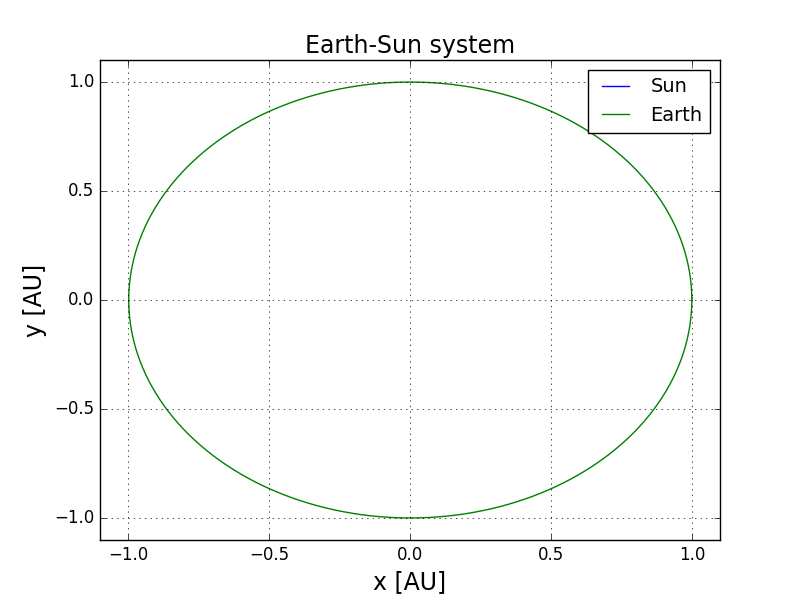
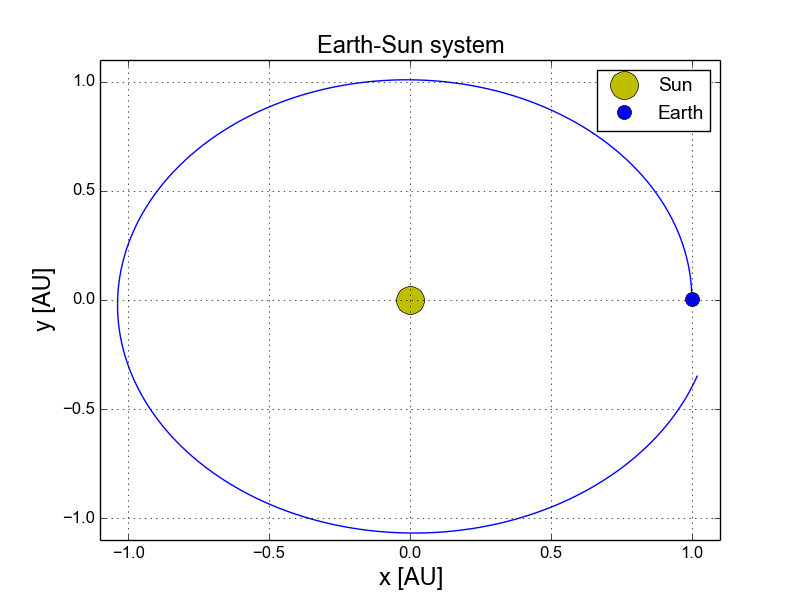
swiitch

diff --git a/src/main.cpp b/src/main.cpp
@@ -11,8 +11,6 @@
 #include "vec3.h"
 #include "celestialbody.h"
 #include "solarsystem.h"
-#include "euler.h"
-#include "velocityverlet.h"
 #include "integrator.h"
 
 using namespace std;
@@ -55,18 +53,8 @@ int main(int argc, char *argv[])
     double dt = atof(argv[2]);
     int num_timesteps = 1000;
 
-    /* Need to do this more properly later, this is just for simple implementation
-     * TODO:
-     * - Add initial conditions for other planets (PLUTO ISNT A PLANET DAMNIT!) add pluto as well though
-     *  - scale mass with the solar mass
-     *  - scale distance and velocity to [AU] and [AU/day]? im confused
-     *
-     * - Write to file some way / solarsystem has such an elegant way of opening files only once :(
-     * - WHAT THE FUCK IS EVEN WRITTEN TO FILE?????
-     * - We might have to manually set the Sun position in (0,0,0) each iteration for the first tasks
-     *
+    /* TODO:
      * - Maybe add folders in benchmarks for the different tasks, so as to make it more readable?
-     *
      * - Need to set up program with some sort of task structure
      *   - 3b: earth-sun system, no solar motion, just write algorithms
      *
@@ -80,9 +68,6 @@ int main(int argc, char *argv[])
      *   - 3e: earth-sun-jupiter, sun still in (0,0,0)
      *     - see how much jupiter alters course. change m_j to different values
      *
-     *   - 3f: earth-sun-jupiter, sun moves!
-     *     - add more planets and moons if time
-     *
      *   - 3g: general relativistic correction (mercury!)
      */
 
@@ -91,39 +76,61 @@ int main(int argc, char *argv[])
     /////////////////////////////////////////////
     if (strcmp(argv[1], "ES") == 0)
     {
-        double v_y0 = 6.28; // not completely random default value
+        double v_y0 = 6.28; // for circular orbit
         if (argc > 3)
         {
             v_y0 = atof(argv[3]);
         }
 
-        // Creating filename for this task
-        string filename = "../benchmarks/ES/pos_dt"+to_string(dt)+"_N"+to_string(num_timesteps)+"_vy"+to_string(v_y0)+".xyz";
+        // Finding number of time steps based on how many years we want the program to run
+        num_timesteps = 1/dt; // 1 yr / dt [yr]
 
+        // Creating filename for this task
+        string meth = method;
+        string filename = "../benchmarks/ES/pos_"+meth+"_dt"+to_string(dt)+"_N"+to_string(num_timesteps)+"_vy"+to_string(v_y0)+".xyz";
+
+        // For timing segments of code, comment out write to file
+        //clock_t start, finish;
+        //ofstream time_ofile;
+        //time_ofile.open("../benchmarks/ES/timing.txt",ios_base::app);
+
+        // Adding objects to our solar system
         solarSystem.createCelestialBody(vec3(0,0,0),vec3(0,0,0),1.0); // adding the sun
-        // initializing some stuff
 
         vec3 r_earth(1,0,0);
         vec3 v_earth(0,v_y0,0);
-        // Adding earth to celestial body
-
-        solarSystem.createCelestialBody(r_earth, v_earth, 3e-6);
+        solarSystem.createCelestialBody(r_earth, v_earth, 3e-6); // adding the Earth
 
         solarSystem.writeToFile(filename); //initializing file
         Integrator integrator(dt,method);
-        // Euler integrator(dt);
-        // VelocityVerlet integrator(dt);
 
         //Access sun position so that we can keep it still
         std::vector<CelestialBody> &m_bodies = solarSystem.bodies();
         CelestialBody &body = m_bodies[0];
 
+
+        // Checking if kinetic and potential energy is conserved
+        double totalEnergy0 = solarSystem.totalEnergy();
+
+
+        //start = clock();
         for (int i=0; i<num_timesteps; i++)
         {
             integrator.integrateOneStep(solarSystem);
             body.position = vec3(0,0,0); // fixing the Sun to (0,0,0) each step
             solarSystem.writeToFile(filename);
         }
+
+        double totE_end = solarSystem.totalEnergy();
+        cout<<totalEnergy0<<endl<<totE_end<<endl;
+
+        // Time calculation and write to file
+        //finish = clock();
+        //double time_duration = ((finish-start)/((double)CLOCKS_PER_SEC));
+        //time_ofile<<method<<", dt = "<<setw(8)<<dt<<", N = "<<setw(8)<<num_timesteps<<endl;
+        //time_ofile<<"t = "<<setw(10)<<setprecision(8)<<time_duration<<"\n\n";
+        //time_ofile.close();
+
     }
 
     else if(strcmp(argv[1], "ESesc") == 0)
@@ -153,20 +160,19 @@ int main(int argc, char *argv[])
         double M_jupiter = 1.9e27/M_sun; // rel. mass of Jupiter
 
         // Adding the Earth
-        vec3 pos_E = vec3(9.00219e-1, 4.36991e-1, -1.77691e-4);  // position [AU]
-        vec3 vel_E = vec3(-7.76495e-3, 1.54282e-2, -4.06713e-7); // velocity [AU/day]
-        solarSystem.createCelestialBody(pos_E, vel_E*365.25, M_earth); // adding the Earth
+        vec3 pos_earth = vec3( 9.002187374164167E-01, 4.369907064244718E-01, -1.776909578696060E-04);    // position [AU]
+        vec3 vel_earth = vec3(-7.764951739652256E-03, 1.542821220223306E-02, -4.067127050855086E-07);    // velocity [AU/day]
+        solarSystem.createCelestialBody(pos_earth, vel_earth*365.25, M_earth); // adding the Earth
 
         // Adding Jupiter
-        vec3 pos_J = vec3(-5.42632, -4.82222e-1, 1.23357e-1);    // position [AU]
-        vec3 vel_J = vec3(5.81068e-4, -7.16029e-3, 1.67576e-5);  // velocity [AU/day]
-        solarSystem.createCelestialBody(pos_J, vel_J*365.25, factor*M_jupiter); // adding Jupiter
+        vec3 pos_jupiter = vec3(-5.426315241208865E+00, -4.822215431711254E-01, 1.233572936426657E-01);   // position [AU]
+        vec3 vel_jupiter = vec3( 5.810683650779558E-04, -7.160289109931362E-03, 1.675759064981599E-05);   // velocity [AU/day]
+        solarSystem.createCelestialBody(pos_jupiter, vel_jupiter*365.25, M_jupiter); // adding Jupiter
 
         solarSystem.writeToFile(filename); //initializing file
         Integrator integrator(dt,method);
 
         //Access sun position so that we can keep it still
-        // do we still want to do this in this task?
         std::vector<CelestialBody> &m_bodies = solarSystem.bodies();
         CelestialBody &body = m_bodies[0];
 

diff --git a/src/solarsystem.cpp b/src/solarsystem.cpp
@@ -7,6 +7,7 @@ SolarSystem::SolarSystem() :
     m_kineticEnergy(0),
     m_potentialEnergy(0)
 {
+    pi = 3.14159265358979323846;
 }
 
 CelestialBody& SolarSystem::createCelestialBody(vec3 position, vec3 velocity, double mass) {
@@ -19,6 +20,7 @@ void SolarSystem::calculateForcesAndEnergy()
     m_kineticEnergy = 0;
     m_potentialEnergy = 0;
     m_angularMomentum.zeros();
+    m_momentum.zeros();
 
     for(CelestialBody &body : m_bodies) {
         // Reset forces on all bodies
@@ -33,16 +35,18 @@ void SolarSystem::calculateForcesAndEnergy()
             double dr = deltaRVector.length();
             // Calculate the force and potential energy here
 
-            vec3 force = -4*pow(3.141592654,2) * body1.mass * body2.mass / pow(dr,3) * deltaRVector;
+            vec3 force = -4*pi*pi* body1.mass * body2.mass / pow(dr,3) * deltaRVector;
             // see if 4pi^2 factor can be put outside to reduce flops + check minus sign
             // check directionality of deltaRVector, among other things
             body1.force += force;
             body2.force -= force; // this sign is correct, otherwise cannot get circular orbit in ES
 
             // Potential energy, check minus sign again
-            m_potentialEnergy += -4*pow(3.141592654,2) * body1.mass * body2.mass / dr;
+            m_potentialEnergy += -4*pi*pi * body1.mass * body2.mass / dr;
         }
 
+        m_momentum += body1.mass*body1.velocity;
+        m_angularMomentum += body1.position.cross(m_momentum);
         m_kineticEnergy += 0.5*body1.mass*body1.velocity.lengthSquared();
     }
 }
@@ -51,7 +55,6 @@ void SolarSystem::calculateForcesAndEnergyREL()
 {
     m_kineticEnergy = 0;
     m_potentialEnergy = 0;
-    m_angularMomentum.zeros();
 
     double c = 63239.7263; // AU/year
 
@@ -69,14 +72,14 @@ void SolarSystem::calculateForcesAndEnergyREL()
             double l = (body2.position.cross(body2.velocity)).length();
             // Calculate the force and potential energy here
 
-            vec3 force = -4*pow(3.141592654,2) * body1.mass * body2.mass / pow(dr,3) * (1 + (3*pow(l, 2))/(pow(dr,2)*pow(c, 2))) * deltaRVector;
+            vec3 force = -4*pi*pi * body1.mass * body2.mass / pow(dr,3) * (1 + (3*pow(l, 2))/(pow(dr,2)*pow(c, 2))) * deltaRVector;
             // see if 4pi^2 factor can be put outside to reduce flops + check minus sign
             // check directionality of deltaRVector, among other things
             body1.force += force;
             body2.force -= force; // this sign is correct, otherwise cannot get circular orbit in ES
 
             // Potential energy, check minus sign again
-            m_potentialEnergy += -4*pow(3.141592654,2) * body1.mass * body2.mass / dr;
+            m_potentialEnergy += -4*pi*pi * body1.mass * body2.mass / dr;
         }
 
         m_kineticEnergy += 0.5*body1.mass*body1.velocity.lengthSquared();
@@ -123,6 +126,11 @@ void SolarSystem::writeToFile(string filename)
 vec3 SolarSystem::angularMomentum() const
 {
     return m_angularMomentum;
+}
+
+vec3 SolarSystem::momentum() const
+{
+    return m_momentum;
 }
 
 std::vector<CelestialBody> &SolarSystem::bodies()

diff --git a/src/solar_system.py b/src/solar_system.py
@@ -30,23 +30,26 @@ if __name__=='__main__':
     try:
         task = sys.argv[1]
     except IndexError:
-        task = 'ESJ'
+        task = 'ES'
 
     N = 1000 # need this, need to change naming convention of files
     # if name contains N, we could just fill arrays instead of lists
 
     # Plot ES
     if task=='ES':
-        filename = '../benchmarks/ES/pos_dt0.001000_N1000_vy6.280000.xyz'
+        filename = '../benchmarks/ES/pos_Euler_dt0.001000_N1000_vy6.280000.xyz'
         positions = read_file(filename,N)
 
-        plot(positions[0][:,0],positions[0][:,1],label='Sun')
-        plot(positions[1][:,0],positions[1][:,1],label='Earth')
+        plot(positions[0][0,0],positions[0][0,1],'oy',ms=20,label='Sun')
+        plot(positions[1][0,0],positions[1][0,1],'ob',ms=10,label='Earth')
+
+        plot(positions[0][:,0],positions[0][:,1],'y')
+        plot(positions[1][:,0],positions[1][:,1],'b')
         xlabel('x [AU]',size=17)
         ylabel('y [AU]',size=17)
         title('Earth-Sun system',size=17)
         grid('on')
-        legend(fontsize=14)
+        legend(numpoints=1,fontsize=14)
         xlim([-1.1,1.1])
         ylim([-1.1,1.1])
         savefig('../figures/earth_sun.png')
@@ -75,9 +78,9 @@ if __name__=='__main__':
         savefig('../figures/earth_sun_jupiter.png')
         show()
 
-            # Plot ES
-    if task=='GM':
-        filename = '../benchmarks/GM/pos_dt0.010000_N1000.xyz'
+    # Plot GR
+    if task=='GR':
+        filename = '../benchmarks/GR/pos_dt0.010000_N1000.xyz'
         positions = read_file(filename,N)
 
         plot(positions[0][:,0],positions[0][:,1],label='Sun')

diff --git a/src/solarsystem.h b/src/solarsystem.h
@@ -20,14 +20,17 @@ public:
     double kineticEnergy() const;
     void writeToFile(std::string filename);
     vec3 angularMomentum() const;
+    vec3 momentum() const;
     std::vector<CelestialBody> &bodies();
     std::vector<CelestialBody> m_bodies;
 
 private:
     vec3 m_angularMomentum;
+    vec3 m_momentum;
     std::ofstream m_file;
     double m_kineticEnergy;
     double m_potentialEnergy;
+    double pi;
 };
 
 #endif // SOLARSYSTEM_H
